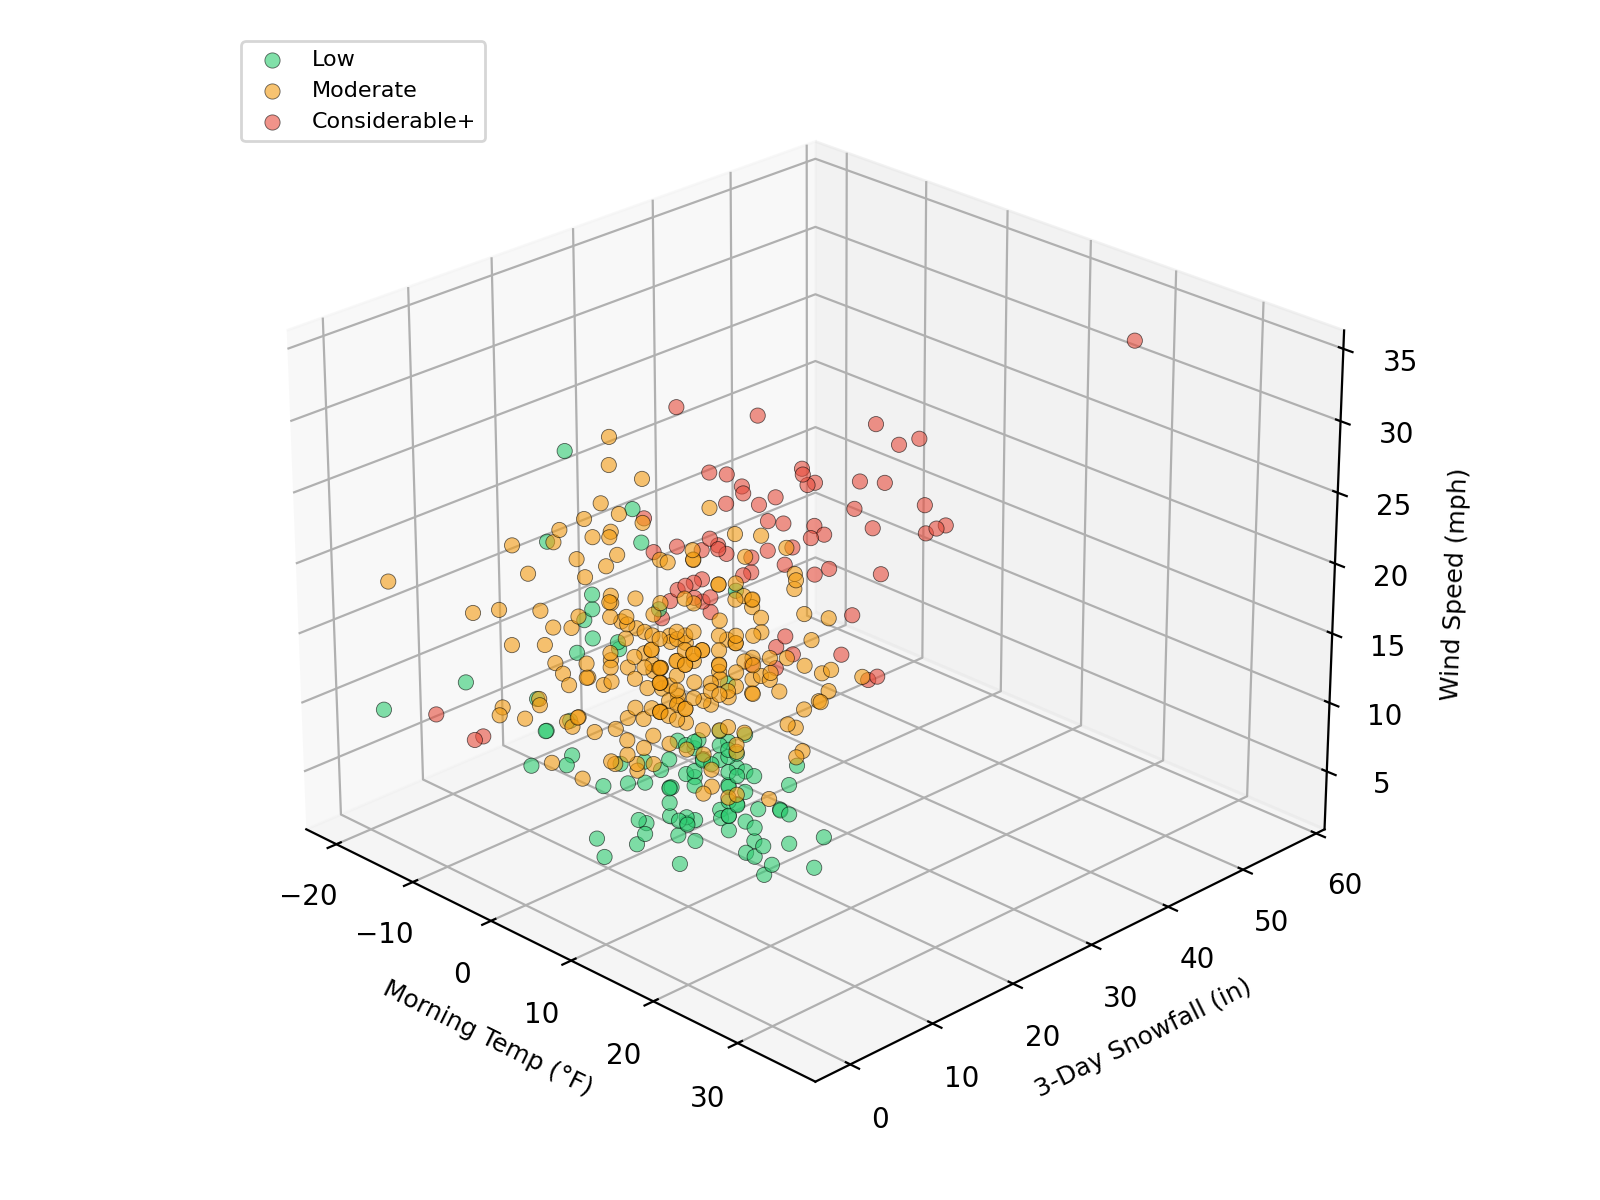
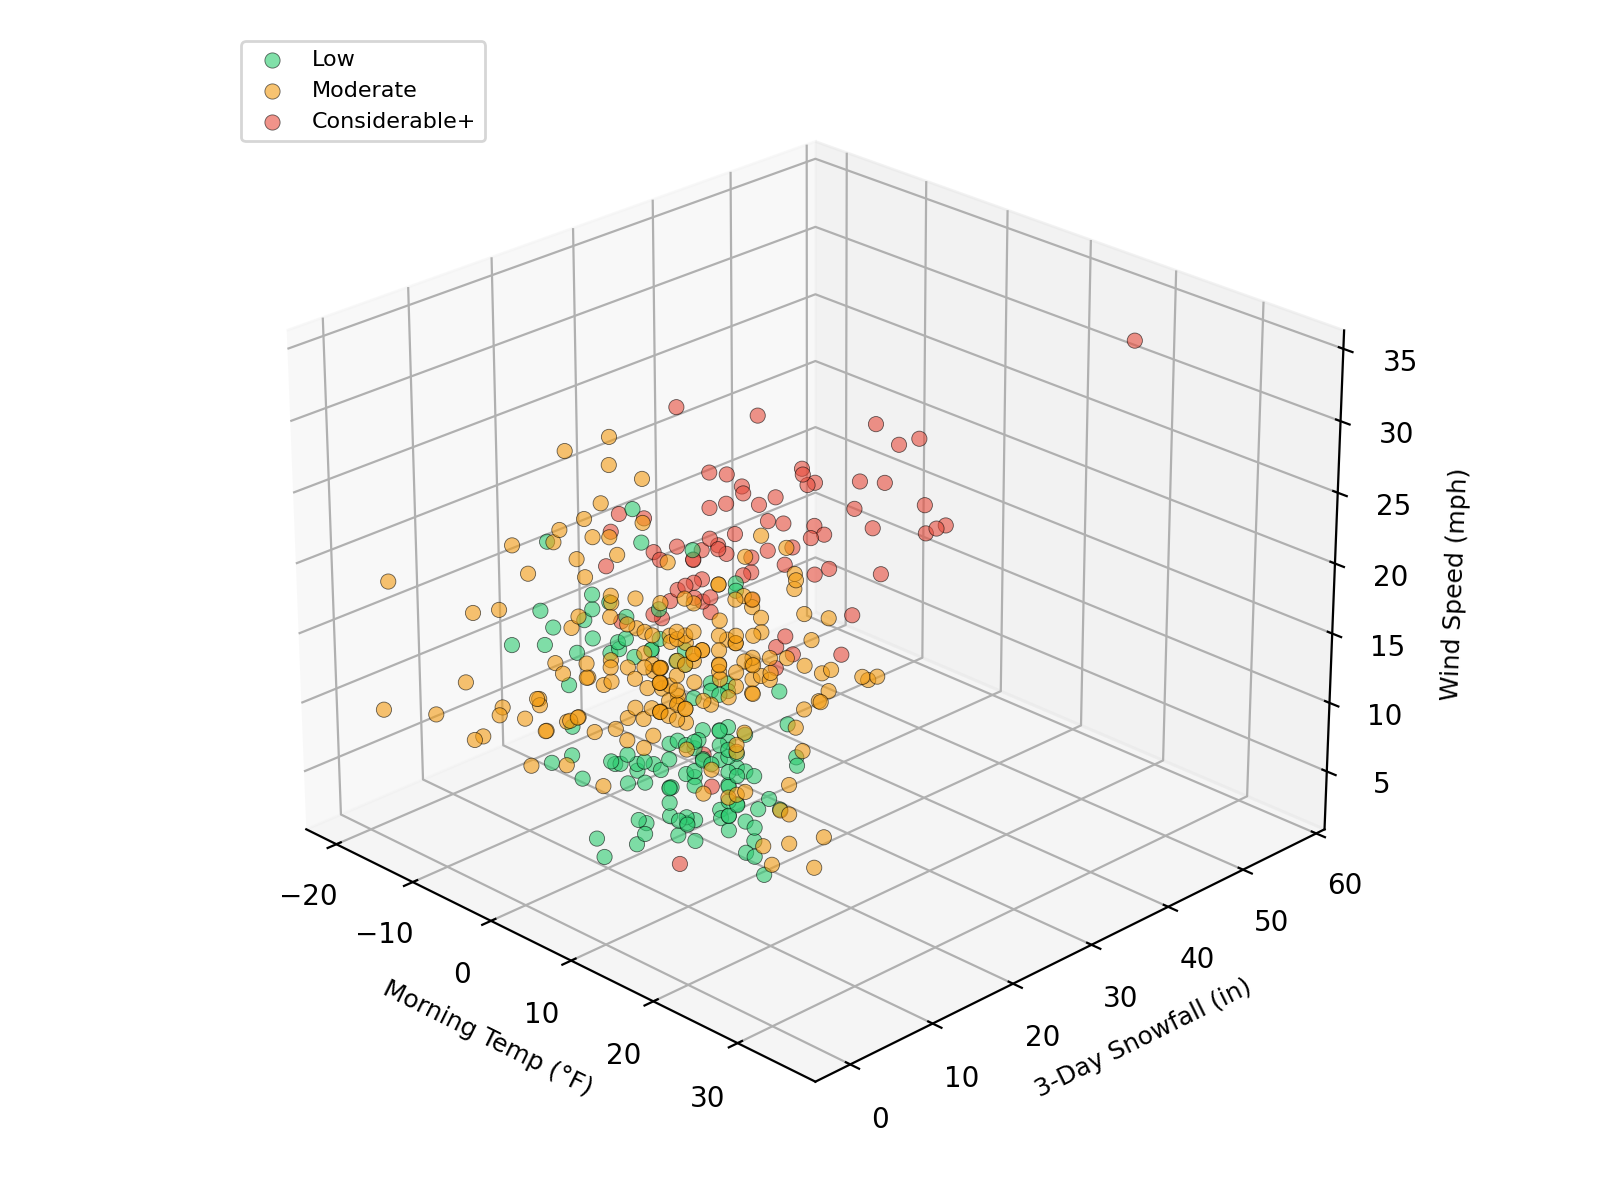
Add NN feature importance plot

diff --git a/src/NN/plot_3d.py b/src/NN/plot_3d.py
@@ -13,13 +13,13 @@ output_dir = script_dir / ".." / ".." / "figures"
 output_dir.mkdir(exist_ok=True)
 
 class AvalancheNN(nn.Module):
-    def __init__(self, input_size=3, hidden_size=16, num_classes=3):
+    def __init__(self, input_size=3, hidden_size=64, num_classes=3):
         super(AvalancheNN, self).__init__()
         self.fc1 = nn.Linear(input_size, hidden_size)
         self.relu1 = nn.ReLU()
-        self.fc2 = nn.Linear(hidden_size, hidden_size)
+        self.fc2 = nn.Linear(hidden_size, hidden_size // 2)
         self.relu2 = nn.ReLU()
-        self.fc3 = nn.Linear(hidden_size, num_classes)
+        self.fc3 = nn.Linear(hidden_size // 2, num_classes)
         
     def forward(self, x):
         out = self.fc1(x)
@@ -61,20 +61,26 @@ def main():
     y_train = pd.read_csv(splits_dir / "y_train.csv").squeeze("columns")
     y_test = pd.read_csv(splits_dir / "y_test.csv").squeeze("columns")
 
+    # Scale features like in train_nn.py
+    from sklearn.preprocessing import StandardScaler
+    scaler = StandardScaler()
+    X_train_scaled = scaler.fit_transform(X_train.values)
+    X_test_scaled = scaler.transform(X_test.values)
+
     # Labels for PyTorch (0-indexed)
     y_train_pt = torch.tensor(y_train.values - 1, dtype=torch.long)
-    X_train_pt = torch.tensor(X_train.values, dtype=torch.float32)
-    X_test_pt = torch.tensor(X_test.values, dtype=torch.float32)
+    X_train_pt = torch.tensor(X_train_scaled, dtype=torch.float32)
+    X_test_pt = torch.tensor(X_test_scaled, dtype=torch.float32)
 
     # Train the NN quickly
     train_dataset = TensorDataset(X_train_pt, y_train_pt)
     train_loader = DataLoader(train_dataset, batch_size=32, shuffle=True)
     
-    model = AvalancheNN(input_size=3, hidden_size=16, num_classes=3)
+    model = AvalancheNN(input_size=3, hidden_size=64, num_classes=3)
     criterion = nn.CrossEntropyLoss()
-    optimizer = optim.Adam(model.parameters(), lr=0.01)
+    optimizer = optim.Adam(model.parameters(), lr=0.001)
     
-    epochs = 100
+    epochs = 200
     print("Training NN for plots...")
     for epoch in range(epochs):
         model.train()
@@ -101,7 +107,27 @@ def main():
     fig.tight_layout()
     fig.savefig(output_dir / "nn_predictions_3d.png", dpi=200)
     
-    print(f"NN figure saved to {output_dir.resolve()}\\nn_predictions_3d.png")
+    # Feature Importance (Proxy using first layer absolute weights)
+    fig2, ax2 = plt.subplots(figsize=(8, 4))
+    fc1_weights = model.fc1.weight.data.numpy()
+    nn_importances = np.mean(np.abs(fc1_weights), axis=0)
+    nn_importances = nn_importances / np.sum(nn_importances) # Normalize to 1.0
+    
+    names = ["Morning Temp", "3-Day Snowfall", "Wind Speed"]
+    idx_nn = np.argsort(nn_importances)[::-1]
+    bars_nn = ax2.bar([names[i] for i in idx_nn], [nn_importances[i] for i in idx_nn],
+                   color=["#e74c3c", "#f39c12", "#2ecc71"], edgecolor="k", linewidth=0.5)
+    for bar, val in zip(bars_nn, [nn_importances[i] for i in idx_nn]):
+        ax2.text(bar.get_x() + bar.get_width()/2, bar.get_height() + 0.01,
+                 f"{val*100:.1f}%", ha="center", fontsize=11, fontweight="bold")
+    ax2.set_ylabel("Importance (Normalized)")
+    # ax2.set_title("Neural Network Feature Importance", fontsize=12, pad=10) # No title as requested
+    ax2.set_ylim(0, max(nn_importances) + 0.08)
+    ax2.grid(True, axis="y", alpha=0.3)
+    fig2.tight_layout()
+    fig2.savefig(output_dir / "nn_feature_importance.png", dpi=200)
+    
+    print(f"NN figures saved to {output_dir.resolve()}")
 
 if __name__ == "__main__":
     main()
